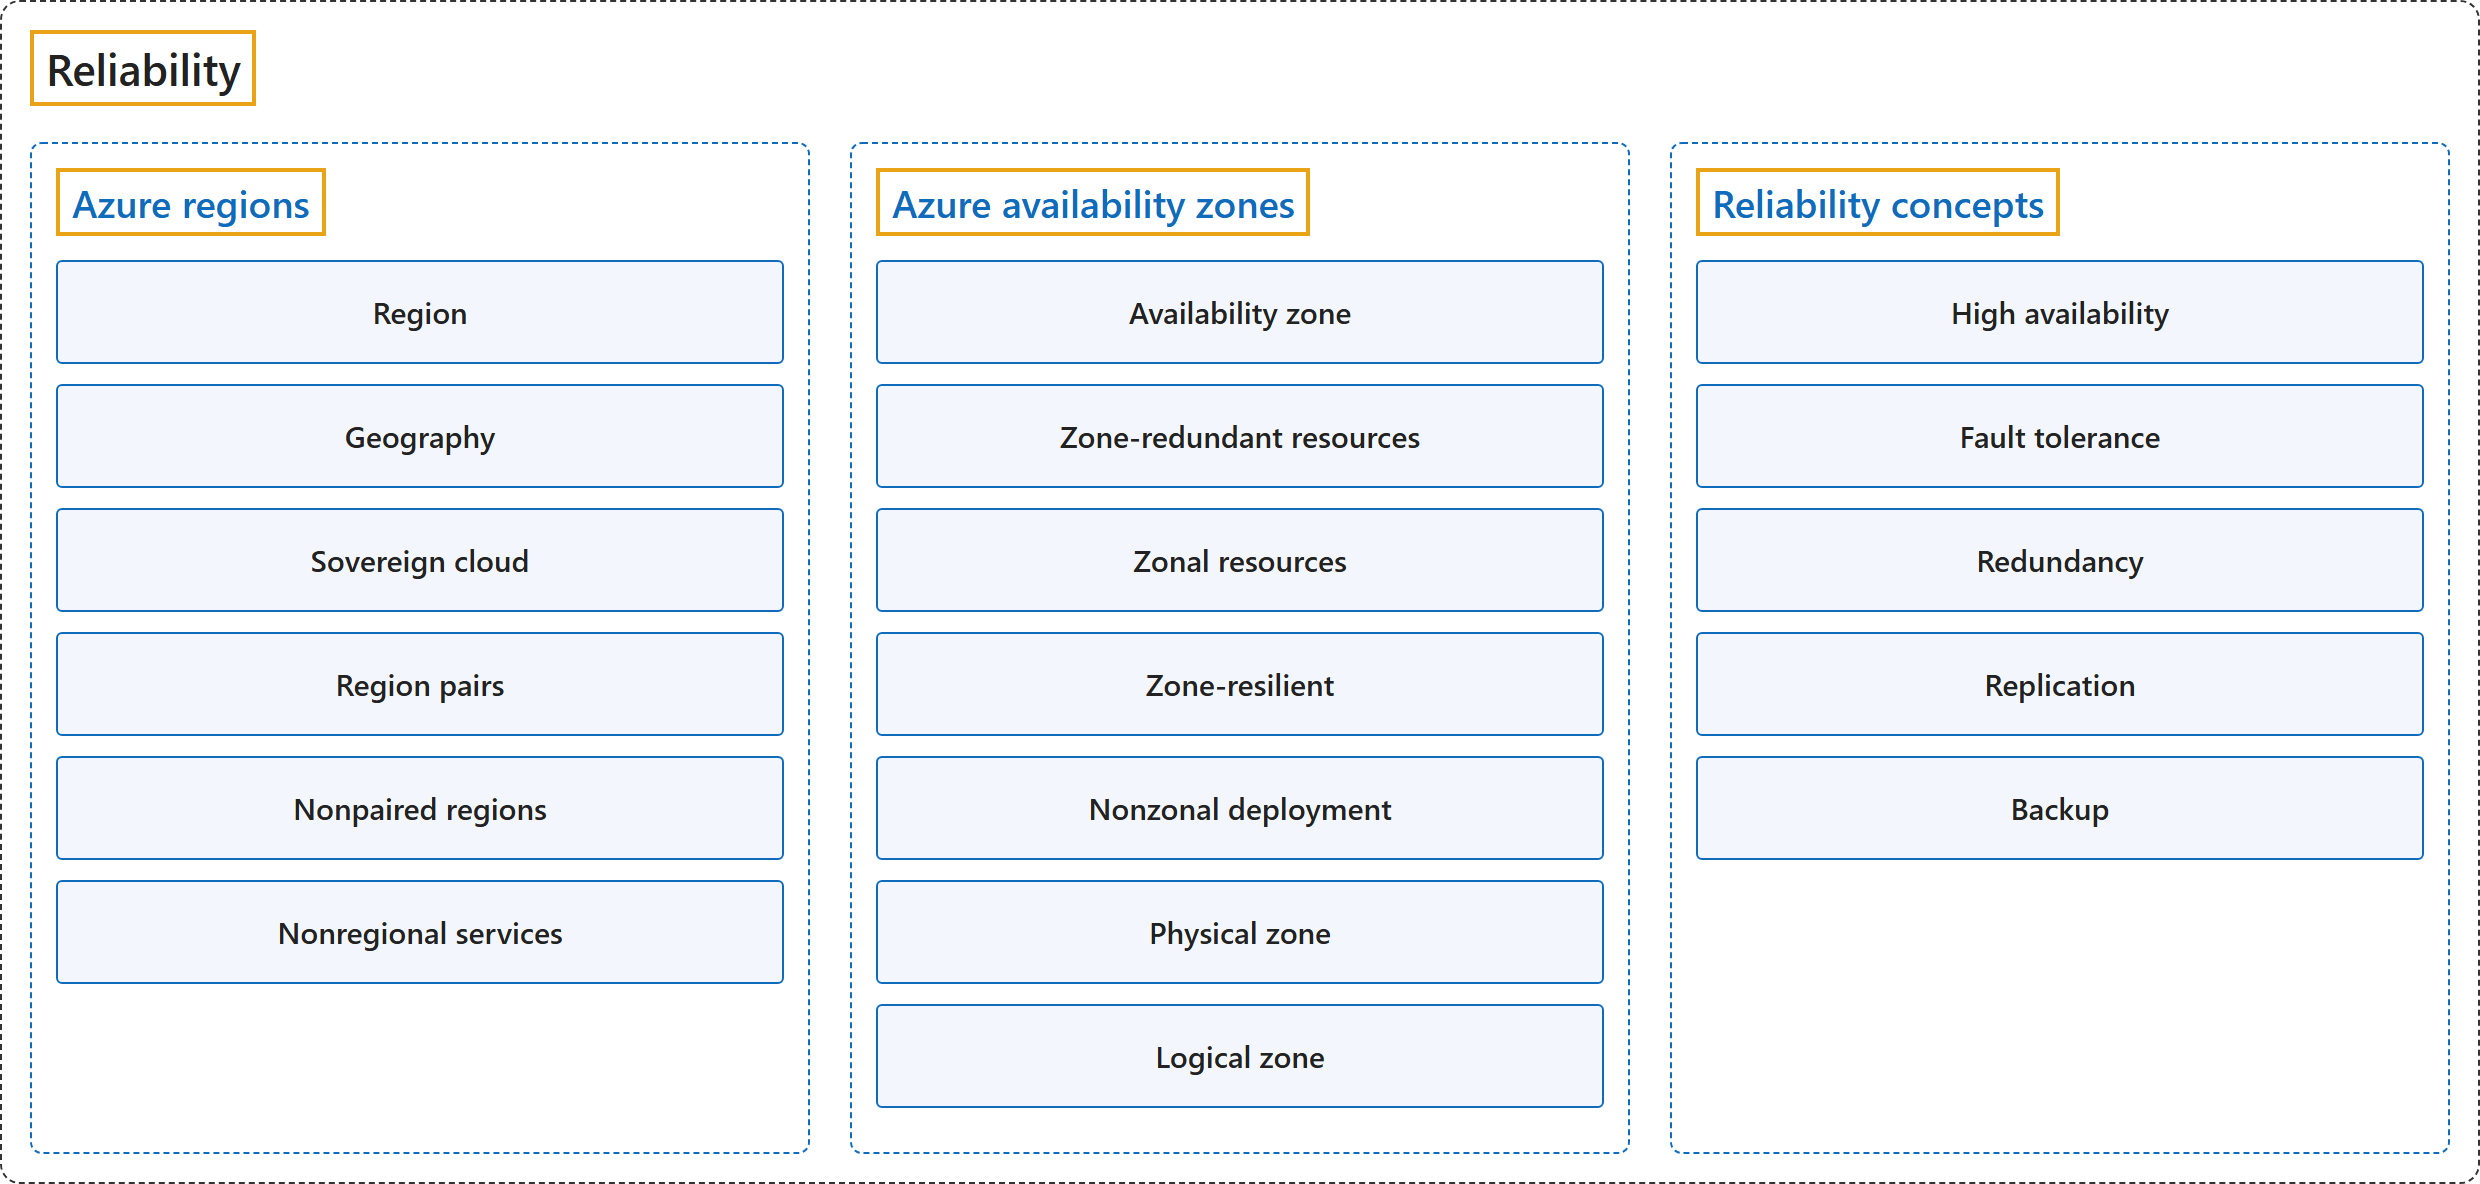
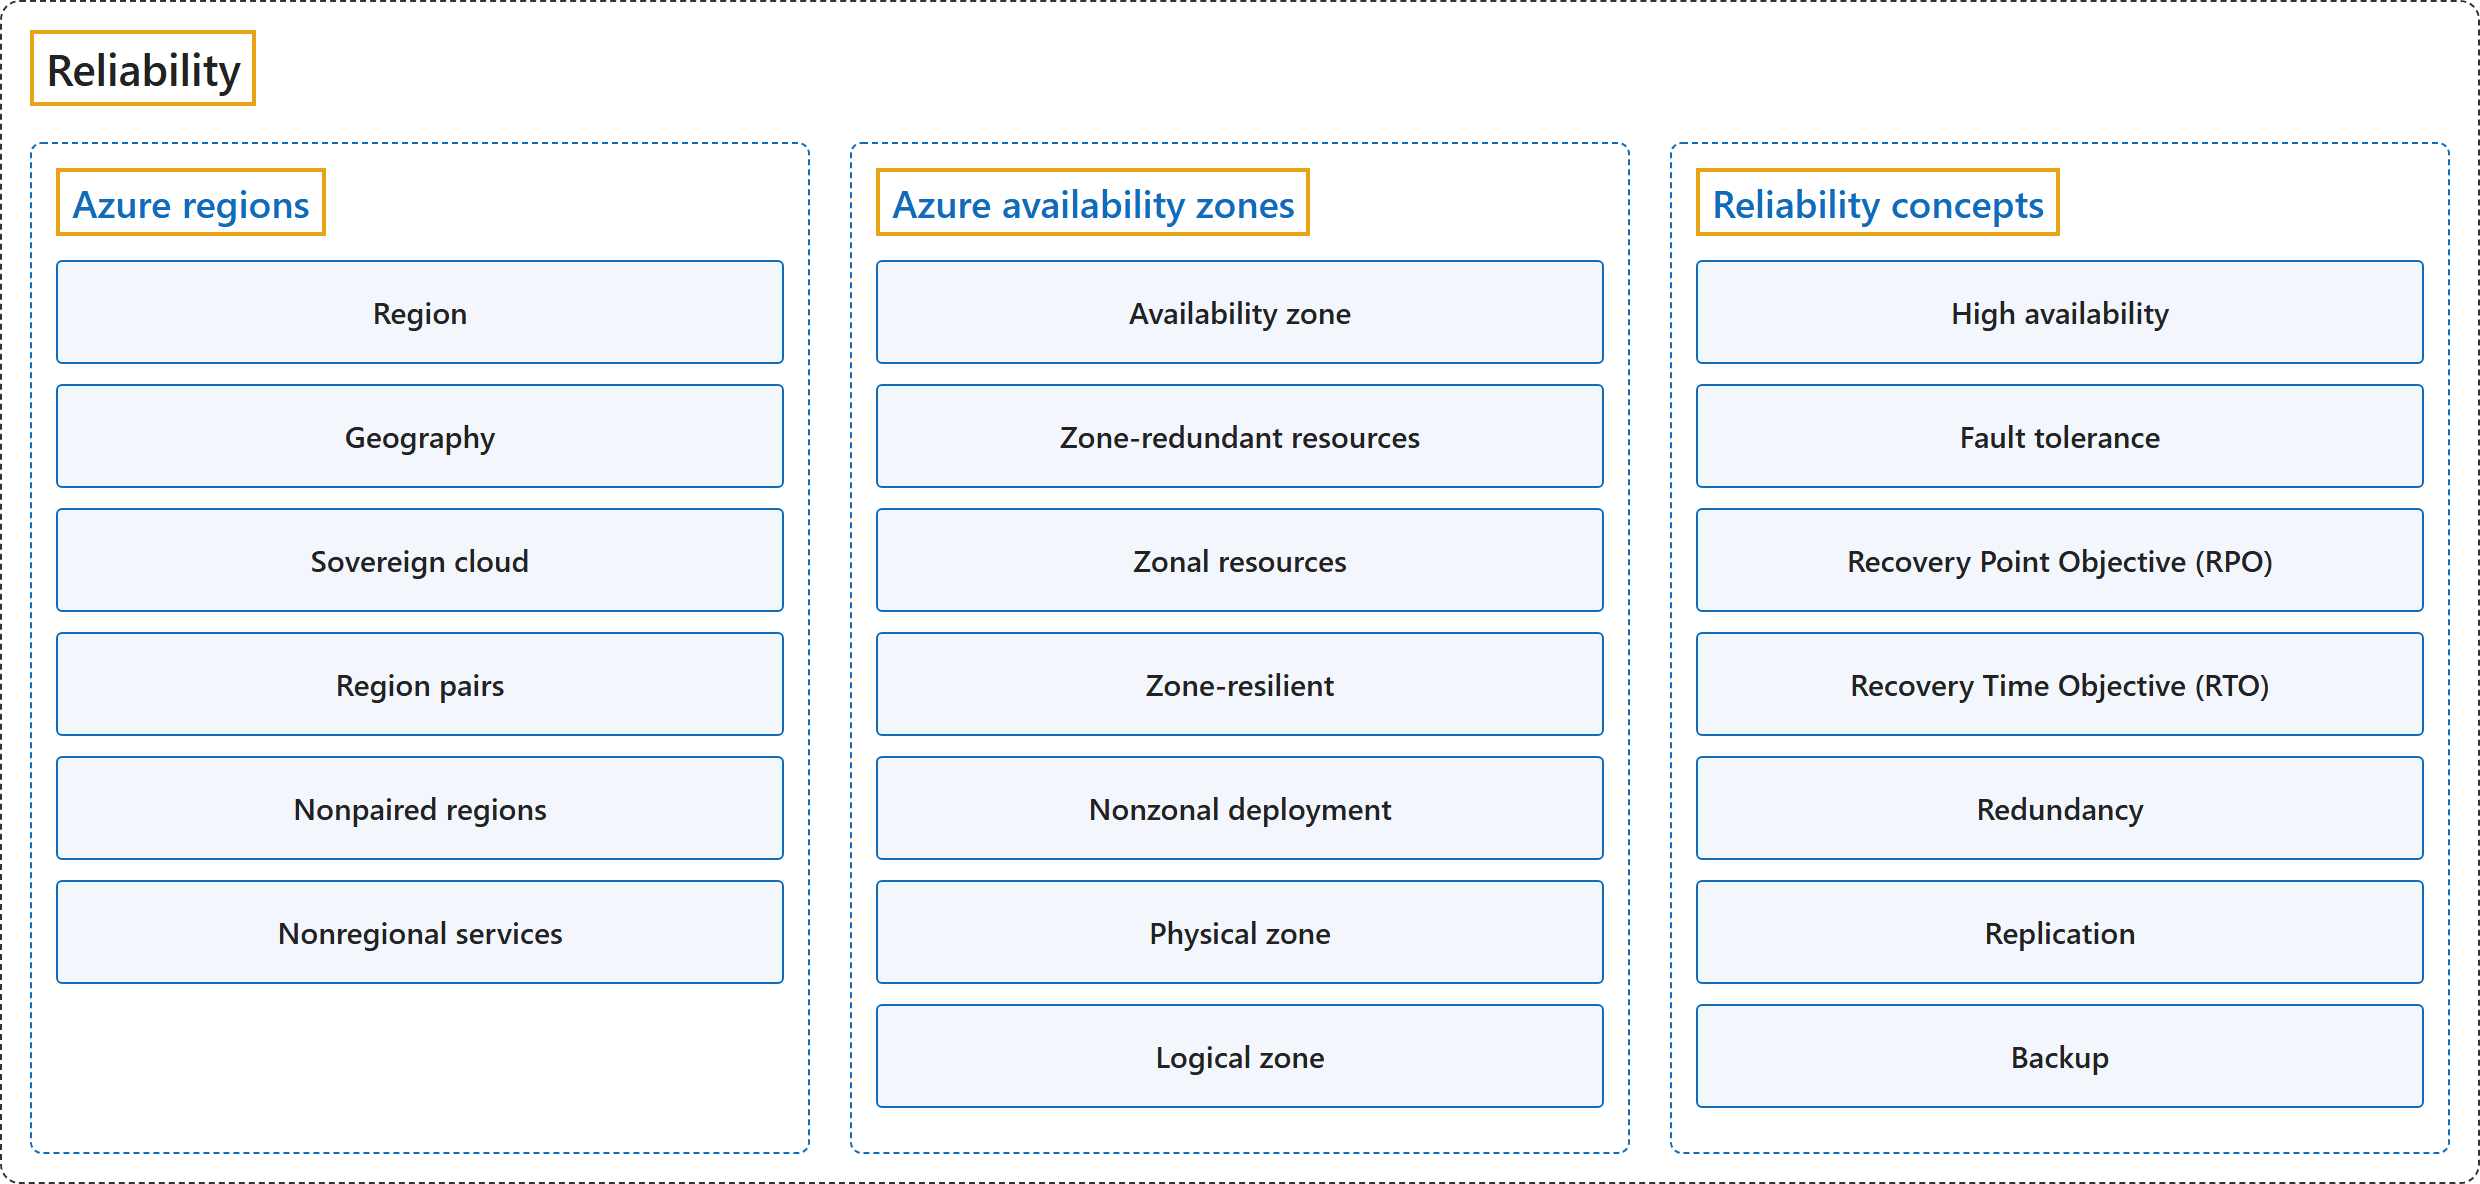
feat(azure): 3.3 RPO and RTO; 10.1 Workflows written with Azure Logic Apps

diff --git a/figures/cloud/azure/integration/workflows.html b/figures/cloud/azure/integration/workflows.html
@@ -1,0 +1,23 @@
+<!doctype html>
+<html><head><meta charset="utf-8">
+<style>
+  body { margin: 0; background: #fff; font-family: "Segoe UI", sans-serif; }
+  .frame { display: inline-block; margin: 2px; padding: 14px 14px 14px; border: 1.5px dashed #333; border-radius: 10px; }
+  .title { display: inline-block; border: 2px solid #e8a317; padding: 2px 6px; font-size: 22px; font-weight: 600; color: #222; margin-bottom: 18px; }
+  .row { display: flex; gap: 14px; align-items: stretch; }
+  .frame > .col { width: 330px; gap: 0; }
+  .col { display: flex; flex-direction: column; gap: 14px; }
+  .col .group { flex: 1 0 auto; }
+  .group { min-width: 330px; border: 1.5px dashed #0f6cbd; border-radius: 6px; padding: 12px; box-sizing: border-box; }
+  .group .title { white-space: nowrap; color: #0f6cbd; font-size: 19px; margin-bottom: 12px; }
+  .item { border: 2px solid #e8a317; background: #f3f7fd; border-radius: 3px; height: 34px; margin-bottom: 8px;
+          display: flex; align-items: center; justify-content: center; font-size: 14px; font-weight: 600; text-align: center; padding: 0 6px; color: #222; }
+</style></head>
+<body>
+<div class="frame" id="fig">
+  <div class="title">Workflows</div>
+  <div class="col">
+    <div class="item">Azure Logic Apps</div>
+  </div>
+</div>
+</body></html>

diff --git a/figures/cloud/azure/reliability/reliability.html b/figures/cloud/azure/reliability/reliability.html
@@ -46,6 +46,8 @@
         <div class="title">Reliability concepts</div>
         <div class="item">High availability</div>
         <div class="item">Fault tolerance</div>
+        <div class="item">Recovery Point Objective (RPO)</div>
+        <div class="item">Recovery Time Objective (RTO)</div>
         <div class="item">Redundancy</div>
         <div class="item">Replication</div>
         <div class="item">Backup</div>

diff --git a/figures/cloud/azure/reliability/reliability-concepts.html b/figures/cloud/azure/reliability/reliability-concepts.html
@@ -19,6 +19,8 @@
   <div class="col">
     <div class="item">High availability</div>
     <div class="item">Fault tolerance</div>
+    <div class="item">Recovery Point Objective (RPO)</div>
+    <div class="item">Recovery Time Objective (RTO)</div>
     <div class="item">Redundancy</div>
     <div class="item">Replication</div>
     <div class="item">Backup</div>

diff --git a/docs/cloud/azure/reliability/reliability-concepts.md b/docs/cloud/azure/reliability/reliability-concepts.md
@@ -1,6 +1,6 @@
 ---
 title: "3.3 Reliability concepts"
-description: "Microsoft Azure, 3.3 Reliability concepts: high availability, fault tolerance, redundancy, replication, backup."
+description: "Microsoft Azure, 3.3 Reliability concepts: high availability, fault tolerance, Recovery Point Objective (RPO), Recovery Time Objective (RTO), redundancy, replication, backup."
 ms.date: 2026-10-26
 ---
 
@@ -10,7 +10,7 @@ Sources: [Shared responsibility for reliability](https://learn.microsoft.com/en-
 
 ## Classification
 
-![Reliability concepts, so far five terms: high availability and fault tolerance from What are business continuity, high availability, and disaster recovery?, and redundancy, replication and backup from What are redundancy, replication, and backup?](media/reliability-concepts.png)
+![Reliability concepts, so far seven terms: high availability, fault tolerance, Recovery Point Objective (RPO) and Recovery Time Objective (RTO) from What are business continuity, high availability, and disaster recovery?, and redundancy, replication and backup from What are redundancy, replication, and backup?](media/reliability-concepts.png)
 
 ## Glossary
 
@@ -18,6 +18,8 @@ Sources: [Shared responsibility for reliability](https://learn.microsoft.com/en-
 |---|---|---|---|
 | **High availability**<br>高可用性 | "*High availability* is the state in which a specific workload can **maintain its necessary level of uptime on a day-to-day basis**, **even during transient faults and intermittent failures**." | 高可用性是指特定工作负载能够**日常保持所需正常运行时间水平**的状态，**即使在发生暂时性故障和间歇性失败时**也是如此。 | [Microsoft, 2025a, "High availability" section, para. 1](https://learn.microsoft.com/en-us/azure/reliability/concept-business-continuity-high-availability-disaster-recovery#:~:text=is%20the%20state%20in%20which%20a%20specific%20workload%20can%20maintain) |
 | **Fault tolerance**<br>容错 | "*Fault tolerance* is the ability of a system to **continue operating, in some defined capacity, in the event of a failure**." | 容错是系统**在发生故障时仍能以某种既定能力继续运行**的能力。 | [Microsoft, 2025a, "Fault tolerance" section, para. 1](https://learn.microsoft.com/en-us/azure/reliability/concept-business-continuity-high-availability-disaster-recovery#:~:text=is%20the%20ability%20of%20a%20system%20to%20continue%20operating) |
+| **Recovery Point Objective (RPO)**<br>恢复点目标 | "Recovery Point Objective (RPO) is the **maximum duration of acceptable data loss** **in the event of a disaster**." | 恢复点目标（RPO）是**可接受的最长数据丢失时长**，针对的是**发生灾难的情况**。 | [Microsoft, 2025a, "Disaster recovery requirements" section, list item 1](https://learn.microsoft.com/en-us/azure/reliability/concept-business-continuity-high-availability-disaster-recovery#:~:text=is%20the%20maximum%20duration%20of%20acceptable%20data%20loss) |
+| **Recovery Time Objective (RTO)**<br>恢复时间目标 | "Recovery Time Objective (RTO) is the **maximum duration of acceptable downtime** **in the event of a disaster**, where 'downtime' is defined by your specification." | 恢复时间目标（RTO）是**可接受的最长停机时长**，针对的是**发生灾难的情况**，其中“停机”由你的规范定义。 | [Microsoft, 2025a, "Disaster recovery requirements" section, list item 2](https://learn.microsoft.com/en-us/azure/reliability/concept-business-continuity-high-availability-disaster-recovery#:~:text=is%20the%20maximum%20duration%20of%20acceptable%20downtime) |
 | **Redundancy**<br>冗余 | "*Redundancy* is the ability to maintain **multiple identical copies of a service component**, and to use those copies in a way that prevents any one component from becoming a **single point of failure**." | 冗余是维护**服务组件的多个相同副本**的能力，并以某种方式使用这些副本，防止任何一个组件成为**单点故障**。 | [Microsoft, 2025b, para. 3](https://learn.microsoft.com/en-us/azure/reliability/concept-redundancy-replication-backup#:~:text=is%20the%20ability%20to%20maintain%20multiple%20identical%20copies%20of%20a%20service%20component) |
 | **Replication**<br>复制 | "*Replication or data redundancy* is the ability to maintain **multiple copies of data**, called **replicas**." | 复制（或数据冗余）是维护**数据的多个副本**的能力，这些副本称为**副本（replica）**。 | [Microsoft, 2025b, para. 4](https://learn.microsoft.com/en-us/azure/reliability/concept-redundancy-replication-backup#:~:text=is%20the%20ability%20to%20maintain%20multiple%20copies%20of%20data%2C%20called%20replicas) |
 | **Backup**<br>备份 | "*Backup* is the ability to maintain a **timestamped copy of data** that can be used to **restore data that has been lost**." | 备份是维护**带时间戳的数据副本**的能力，可用来**恢复已丢失的数据**。 | [Microsoft, 2025b, para. 5](https://learn.microsoft.com/en-us/azure/reliability/concept-redundancy-replication-backup#:~:text=is%20the%20ability%20to%20maintain%20a%20timestamped%20copy%20of%20data) |

diff --git a/docs/cloud/azure/reliability/README.md b/docs/cloud/azure/reliability/README.md
@@ -8,4 +8,4 @@ Follows `../README.md`. Figure on `index.md`: classification (see `../README.md`
 |---|---|---|---|---|
 | 3.1 | `azure-regions.md` | Azure regions | [What are Azure regions?](https://learn.microsoft.com/en-us/azure/reliability/regions-overview); [Paired and nonpaired regions](https://learn.microsoft.com/en-us/azure/reliability/regions-paired); [Services with multiregion support](https://learn.microsoft.com/en-us/azure/reliability/regions-multiregion-support); [Multiregion solutions in nonpaired regions](https://learn.microsoft.com/en-us/azure/reliability/regions-multi-region-nonpaired); [Nonregional Azure services](https://learn.microsoft.com/en-us/azure/reliability/regions-nonregional-services); [Azure regions list](https://learn.microsoft.com/en-us/azure/reliability/regions-list) | 3.1.1 Region, 3.1.2 Geography, 3.1.3 Sovereign cloud, 3.1.4 Region pairs, 3.1.5 Nonpaired regions, 3.1.6 Nonregional services |
 | 3.2 | `azure-availability-zones.md` | Azure availability zones | [What are Azure availability zones?](https://learn.microsoft.com/en-us/azure/reliability/availability-zones-overview); [Services with availability zone support](https://learn.microsoft.com/en-us/azure/reliability/availability-zones-service-support); [Single zone (zonal) resources](https://learn.microsoft.com/en-us/azure/reliability/availability-zones-zonal-resource-resiliency); [Enable zone resiliency](https://learn.microsoft.com/en-us/azure/reliability/availability-zones-enable-zone-resiliency) | 3.2.1 Availability zone, 3.2.2 Zone-redundant resources, 3.2.3 Zonal resources, 3.2.4 Zone-resilient, 3.2.5 Nonzonal deployment, 3.2.6 Physical zone, 3.2.7 Logical zone |
-| 3.3 | `reliability-concepts.md` | Reliability concepts | [Shared responsibility for reliability](https://learn.microsoft.com/en-us/azure/reliability/concept-shared-responsibility); [Business continuity, high availability, and disaster recovery](https://learn.microsoft.com/en-us/azure/reliability/concept-business-continuity-high-availability-disaster-recovery); [Redundancy, replication, and backup](https://learn.microsoft.com/en-us/azure/reliability/concept-redundancy-replication-backup); [Failover and failback](https://learn.microsoft.com/en-us/azure/reliability/concept-failover-failback); [Reliability and sovereignty in Azure](https://learn.microsoft.com/en-us/azure/reliability/concept-reliability-sovereignty); [How to read a service-level agreement (SLA)](https://learn.microsoft.com/en-us/azure/reliability/concept-service-level-agreements) | 3.3.1 High availability, 3.3.2 Fault tolerance, 3.3.3 Redundancy, 3.3.4 Replication, 3.3.5 Backup |
+| 3.3 | `reliability-concepts.md` | Reliability concepts | [Shared responsibility for reliability](https://learn.microsoft.com/en-us/azure/reliability/concept-shared-responsibility); [Business continuity, high availability, and disaster recovery](https://learn.microsoft.com/en-us/azure/reliability/concept-business-continuity-high-availability-disaster-recovery); [Redundancy, replication, and backup](https://learn.microsoft.com/en-us/azure/reliability/concept-redundancy-replication-backup); [Failover and failback](https://learn.microsoft.com/en-us/azure/reliability/concept-failover-failback); [Reliability and sovereignty in Azure](https://learn.microsoft.com/en-us/azure/reliability/concept-reliability-sovereignty); [How to read a service-level agreement (SLA)](https://learn.microsoft.com/en-us/azure/reliability/concept-service-level-agreements) | 3.3.1 High availability, 3.3.2 Fault tolerance, 3.3.3 Recovery Point Objective (RPO), 3.3.4 Recovery Time Objective (RTO), 3.3.5 Redundancy, 3.3.6 Replication, 3.3.7 Backup |

diff --git a/docs/cloud/azure/integration/workflows.md b/docs/cloud/azure/integration/workflows.md
@@ -1,11 +1,23 @@
 ---
 title: "10.1 Workflows"
 description: "Microsoft Azure, 10.1 Workflows: Azure Logic Apps."
-ms.date: 2026-10-24
+ms.date: 2026-10-26
 ---
 
 # 10.1 Workflows
 
 Sources: [Azure Integration Services](https://azure.microsoft.com/en-us/solutions/integration-services); [What is Azure Logic Apps?](https://learn.microsoft.com/en-us/azure/logic-apps/logic-apps-overview).
 
-Not written yet.
+## Classification
+
+![Workflows, so far one term: Azure Logic Apps, from What is Azure Logic Apps?](media/workflows.png)
+
+## Glossary
+
+| Term | Definition | 中文翻译 | Source |
+|---|---|---|---|
+| **Azure Logic Apps**<br>Azure 逻辑应用 | "Azure Logic Apps is a **cloud service and platform** for **automating enterprise business process workflows** and **integrating services, systems, apps, and data** across **cloud, on-premises, and hybrid environments** with **little or no code**." | Azure Logic Apps 是一个**云服务和平台**，用于**自动化企业业务流程工作流**，以及**集成服务、系统、应用和数据**，范围涵盖**云端、本地和混合环境**，只需**少量代码或无需代码**。 | [Microsoft, 2026, para. 1](https://learn.microsoft.com/en-us/azure/logic-apps/logic-apps-overview#:~:text=Azure%20Logic%20Apps%20is%20a%20cloud%20service%20and%20platform) |
+
+## References
+
+- Microsoft. (2026, September 11). *What is Azure Logic Apps?* Microsoft Learn. https://learn.microsoft.com/en-us/azure/logic-apps/logic-apps-overview

diff --git a/docs/cloud/azure/reliability/index.md b/docs/cloud/azure/reliability/index.md
@@ -8,7 +8,7 @@ ms.date: 2026-10-26
 
 ## Classification
 
-![Reliability sorted into three groups, as in the table of contents of the Azure reliability documentation (groups that only list links, Reliability guides for Azure services and Resources, are left out): Azure regions (region, geography, sovereign cloud, region pairs, nonpaired regions, nonregional services), Azure availability zones (availability zone, zone-redundant resources, zonal resources, zone-resilient, nonzonal deployment, physical zone, logical zone) and reliability concepts (high availability, fault tolerance, redundancy, replication, backup).](media/reliability.png)
+![Reliability sorted into three groups, as in the table of contents of the Azure reliability documentation (groups that only list links, Reliability guides for Azure services and Resources, are left out): Azure regions (region, geography, sovereign cloud, region pairs, nonpaired regions, nonregional services), Azure availability zones (availability zone, zone-redundant resources, zonal resources, zone-resilient, nonzonal deployment, physical zone, logical zone) and reliability concepts (high availability, fault tolerance, Recovery Point Objective (RPO), Recovery Time Objective (RTO), redundancy, replication, backup).](media/reliability.png)
 
 ## Glossary
 
